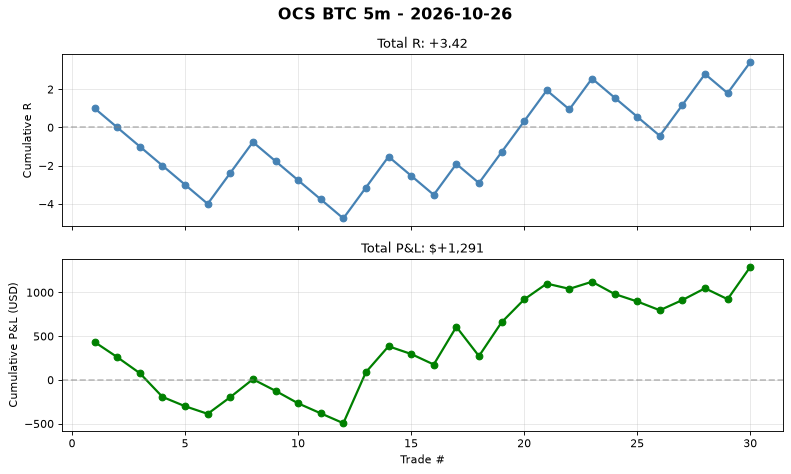
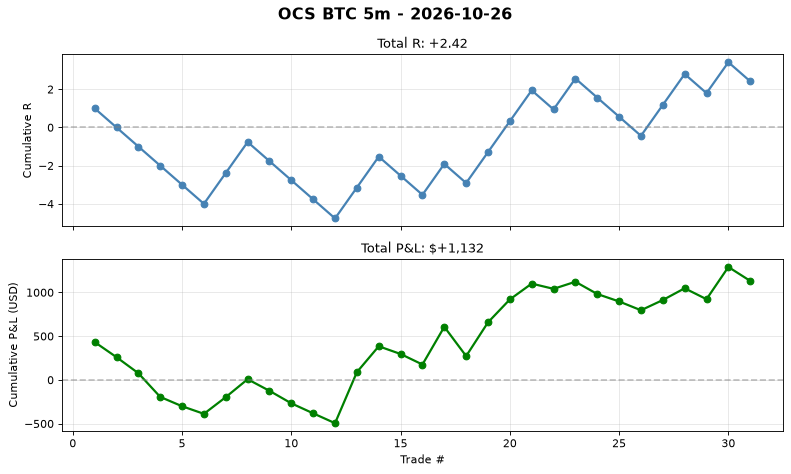
auto(ocs-btc): signal log 2026-10-26T11:02 trades=31

diff --git a/automation/reports/ocs_btc_5m/daily/2026-10-26.md b/automation/reports/ocs_btc_5m/daily/2026-10-26.md
@@ -1,5 +1,37 @@
 # OCS BTC 5m - 2026-10-26
 
-**No trades today.**
+## Summary
+- **Trades**: 1 (0W / 1L)
+- **Win Rate**: 0.0%
+- **Total R**: -1.00R
+- **Total P&L**: $-159
+- **Avg R**: -1.00R
+- **Profit Factor**: 1.13
 
-Cumulative stats: 30 trades | WR 43.3% | avg R 0.114
+## Exit Breakdown
+- T1 (+1.0R): 1
+- T2 (+1.618R): 12
+- T3 (+2.618R): 0
+- T4 (+3.618R): 0
+- T5 (+5.0R): 0
+- SL (-1.0R): 18
+
+## Best Trade
+- **SHORT** at 79,724 -> SL 79,883
+- R = -1.00, P&L = $-159
+- Held for 3 bars
+
+## Worst Trade
+- **SHORT** at 79,724 -> SL 79,883
+- R = -1.00, P&L = $-159
+- Held for 3 bars
+
+## Cumulative Stats (Lifetime)
+- Total trades: 31
+- WR: 41.9%
+- Avg R: 0.078
+- Total R: +2.42R
+- Profit Factor: 1.13
+
+## Chart
+See `daily/2026-10-26.png` for cumulative P&L curve.
